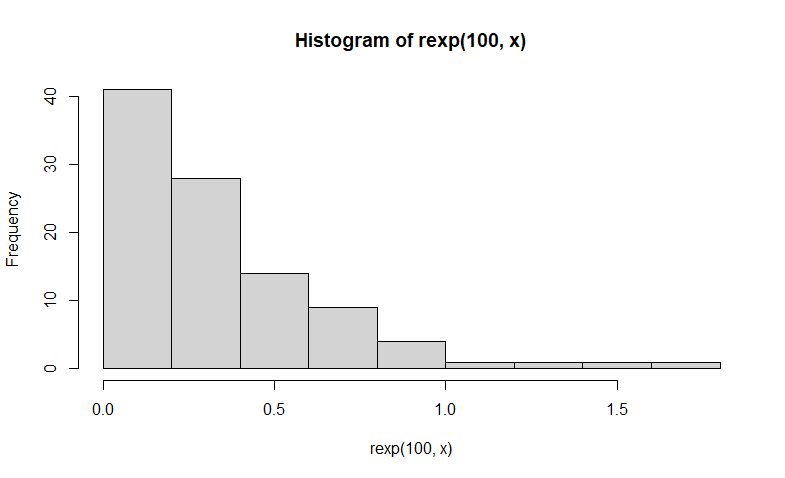
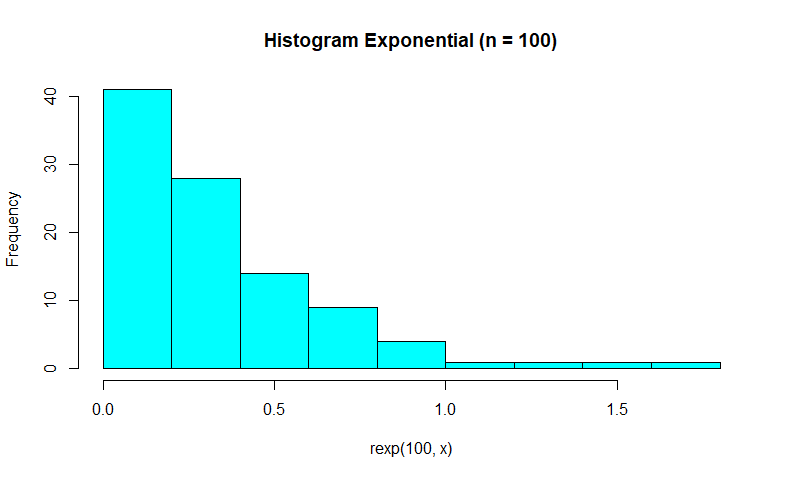
fix: mean and varians for soal5

Changed region(s): [[0.1223, 0.1757, 0.9172, 0.7908], [0.3363, 0.0586, 0.7338, 0.1172]]

diff --git a/README.md b/README.md
@@ -290,12 +290,12 @@ Fungsi Probabilitas dari Distribusi Exponensial
 x = 3
 
 ## a
-dexp(x)
+dexp(1, x)
 ```
 
 ![5.a](screenshot/5.a.png)
 
-**Hasil** : 0.04978707
+**Hasil** : 0.1493612
 
 **Penjelasan** : Menggunakan fungsi `dexp()` untuk mencari distribusi exponensial dengan diketahui nilai `x = 3`.
 
@@ -303,12 +303,13 @@ dexp(x)
 Histogram dari Distribusi Exponensial untuk 10, 100, 1000 dan 10000 bilangan random
 
 ``` r
+
 ## b
 set.seed(1)
-hist(rexp(10, x))
-hist(rexp(100, x))
-hist(rexp(1000, x))
-hist(rexp(10000, x))
+hist(rexp(10, x), main = "Histogram Exponential (n = 10)", col = "cyan")
+hist(rexp(100, x), main = "Histogram Exponential (n = 100)", col = "cyan")
+hist(rexp(1000, x), main = "Histogram Exponential (n = 1000)", col = "cyan")
+hist(rexp(10000, x), main = "Histogram Exponential (n = 10000)", col = "cyan")
 ```
 
 - `n = 10`
@@ -329,7 +330,9 @@ Nilai Rataan (μ) dan Varian (σ²) dari Distribusi Exponensial untuk n = 100 da
 ## c
 n = 100
 data5 = rexp(n, x)
+
 mean(data5)
+
 var(data5)
 ```
 
